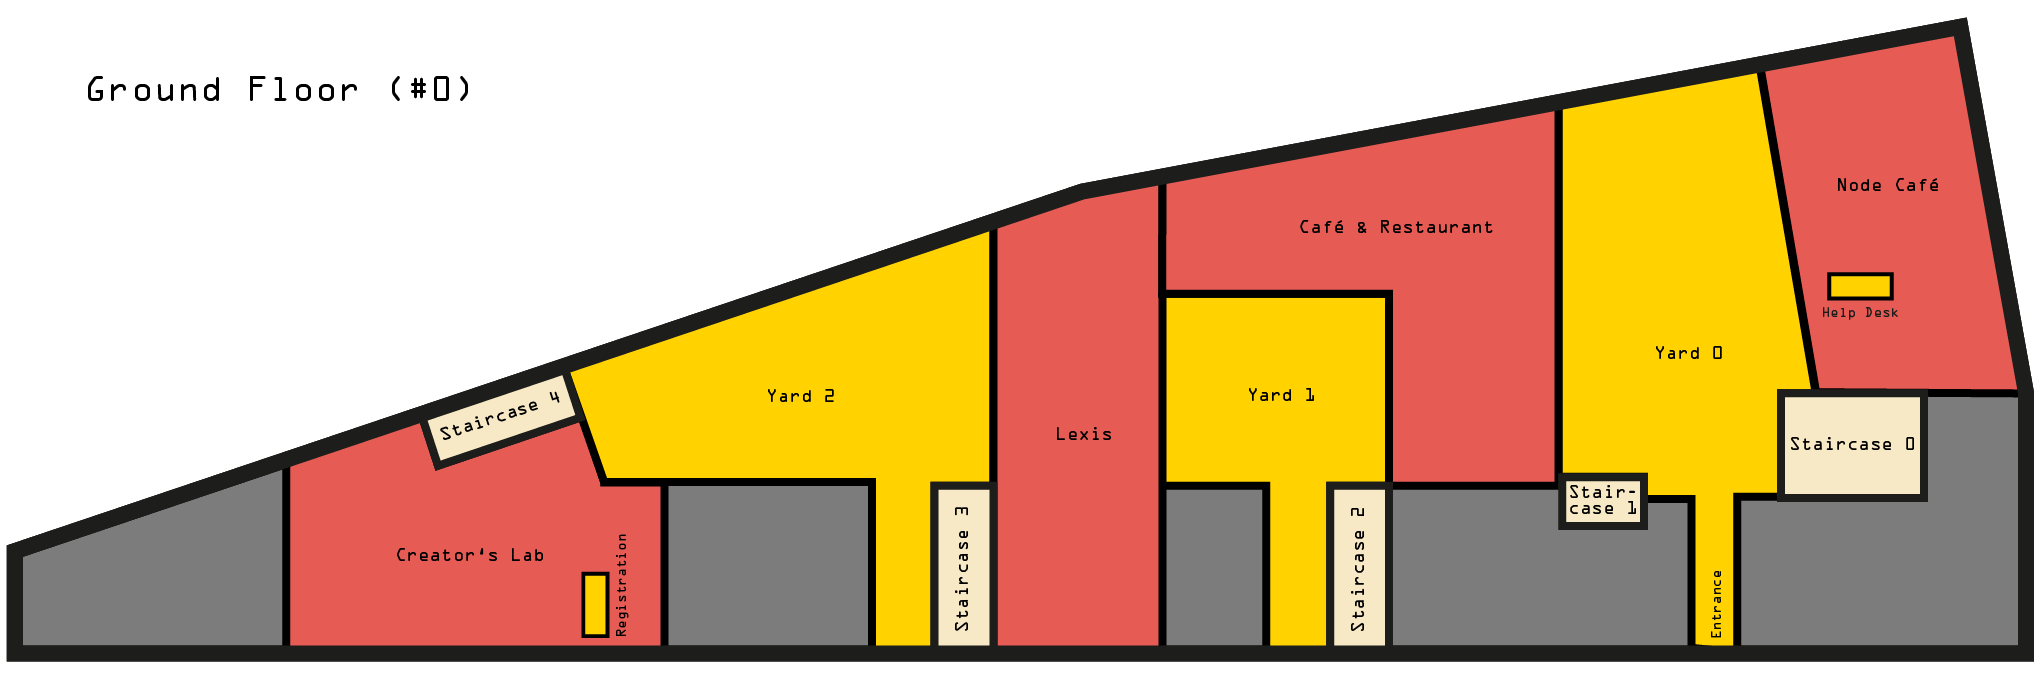
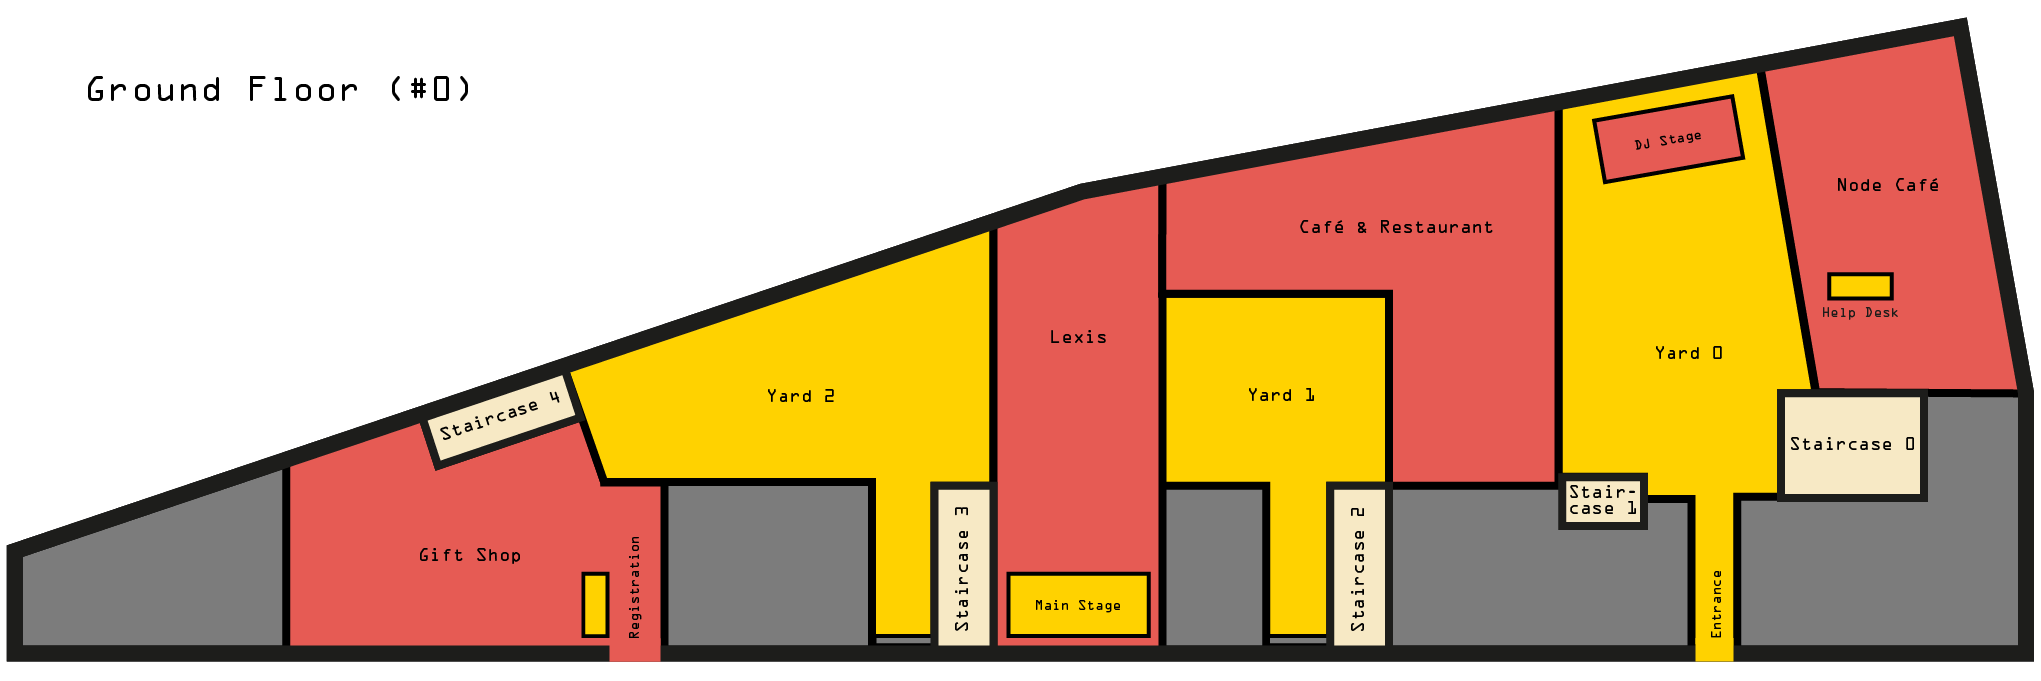
add venue page

diff --git a/src/pages/venue.jsx b/src/pages/venue.jsx
@@ -1,0 +1,56 @@
+import Layout from "../components/Layout";
+import React from "react";
+import groundFloor from "../images/groundFloor.png";
+import firstFloor from "../images/firstFloor.png";
+import secondFloor from "../images/secondFloor.png";
+import thirdFloor from "../images/thirdFloor.png";
+import fourthFloor from "../images/fourthFloor.png";
+import fifthFloor from "../images/fifthFloor.png";
+
+const Venue = () => {
+  return (
+    <Layout>
+      <div className="textbox max-w-xl">
+        <h1 className="my-4 underline text-secondary font-ocra">
+          &lt;&lt;V&lt;ENUE
+        </h1>
+        <div className="">
+          <p className="mt-4">
+            You have access to almost the entire venue for ETHBerlin04. Go explore,
+            find all experiences, eat at the restaurant, chill in the cinema or
+            discover the best rooms for hacking. This venue map will help you navigate
+            all the floors.
+          </p>
+          <p className="mt-4">
+            Start at the registration and gift shop on the ground floor. A secondary
+            entrance and exit is available through backyard 0 (registered hackers only).
+          </p>
+          <p className="mt-4">
+            Note, areas marked in grey (and the entire 4th floor) are not available
+            for hackers this year.
+          </p>
+          <div className="relative mb-16">
+            <img src={groundFloor} alt="ground floor"></img>
+          </div>
+          <div className="relative mb-16">
+            <img src={firstFloor} alt="first floor"></img>
+          </div>
+          <div className="relative mb-16">
+            <img src={secondFloor} alt="second floor"></img>
+          </div>
+          <div className="relative mb-16">
+            <img src={thirdFloor} alt="third floor"></img>
+          </div>
+          <div className="relative mb-16">
+            <img src={fourthFloor} alt="fourth floor"></img>
+          </div>
+          <div className="relative mb-16">
+            <img src={fifthFloor} alt="fifth floor"></img>
+          </div>
+        </div>
+      </div>
+    </Layout>
+  );
+};
+
+export default Venue;

diff --git a/src/html.js b/src/html.js
@@ -57,6 +57,9 @@ export default function HTML(props) {
                     case 's':
                         window.location.href= "/schedule";
                         break;
+                    case 'v':
+                        window.location.href= "/venue";
+                        break;
                     case 'b':
                         window.location.href= "https://blog.dod.ngo/";
                         break;

diff --git a/src/components/Sidebar.jsx b/src/components/Sidebar.jsx
@@ -33,6 +33,10 @@ const Sidebar = ({ className }) => {
         {" "}
         &lt;&lt;<span className="text-berlin-red">S</span>&lt;CHEDULE
       </a>
+      <a className="my-2" href="/venue">
+        {" "}
+        &lt;&lt;<span className="text-berlin-red">V</span>&lt;ENUE
+      </a>
       <a className="my-2" href="/face-idont">
         {" "}
         &lt;&lt;<span className="text-berlin-red">F</span>&lt;ACE IDON'T
